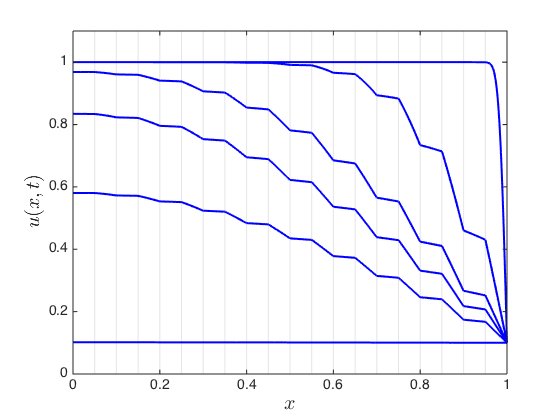
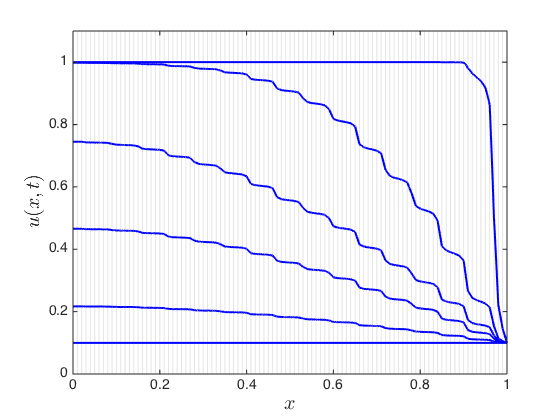
Changed Example B

diff --git a/examples/ExampleB.m b/examples/ExampleB.m
@@ -4,8 +4,8 @@ close all, clear all, clc
 addpath('..')
 
 % Parameters
-m     = 20;                            % Number of layers
-kappa = repmat([1.0,0.1],1,m/2);       % Diffusivities 
+m     = 100;                           % Number of layers
+kappa = 1.1 + cos(1:m);                % Diffusivities 
 l0    = 0.0;                           % Left end of slab
 lm    = 1.0;                           % Right end of slab
 dx    = (lm-l0)/m; l = dx:dx:lm-dx;    % Location of interfaces

diff --git a/examples/ExampleB_fvm.m b/examples/ExampleB_fvm.m
@@ -4,8 +4,8 @@ close all, clear all, clc
 addpath('..')
 
 % Parameters
-m     = 20;                            % Number of layers
-kappa = repmat([1.0,0.1],1,m/2);       % Diffusivities 
+m     = 100;                           % Number of layers
+kappa = 1.1 + cos(1:m);                % Diffusivities 
 l0    = 0.0;                           % Left end of slab
 lm    = 1.0;                           % Right end of slab
 dx    = (lm-l0)/m; l = dx:dx:lm-dx;    % Location of interfaces
